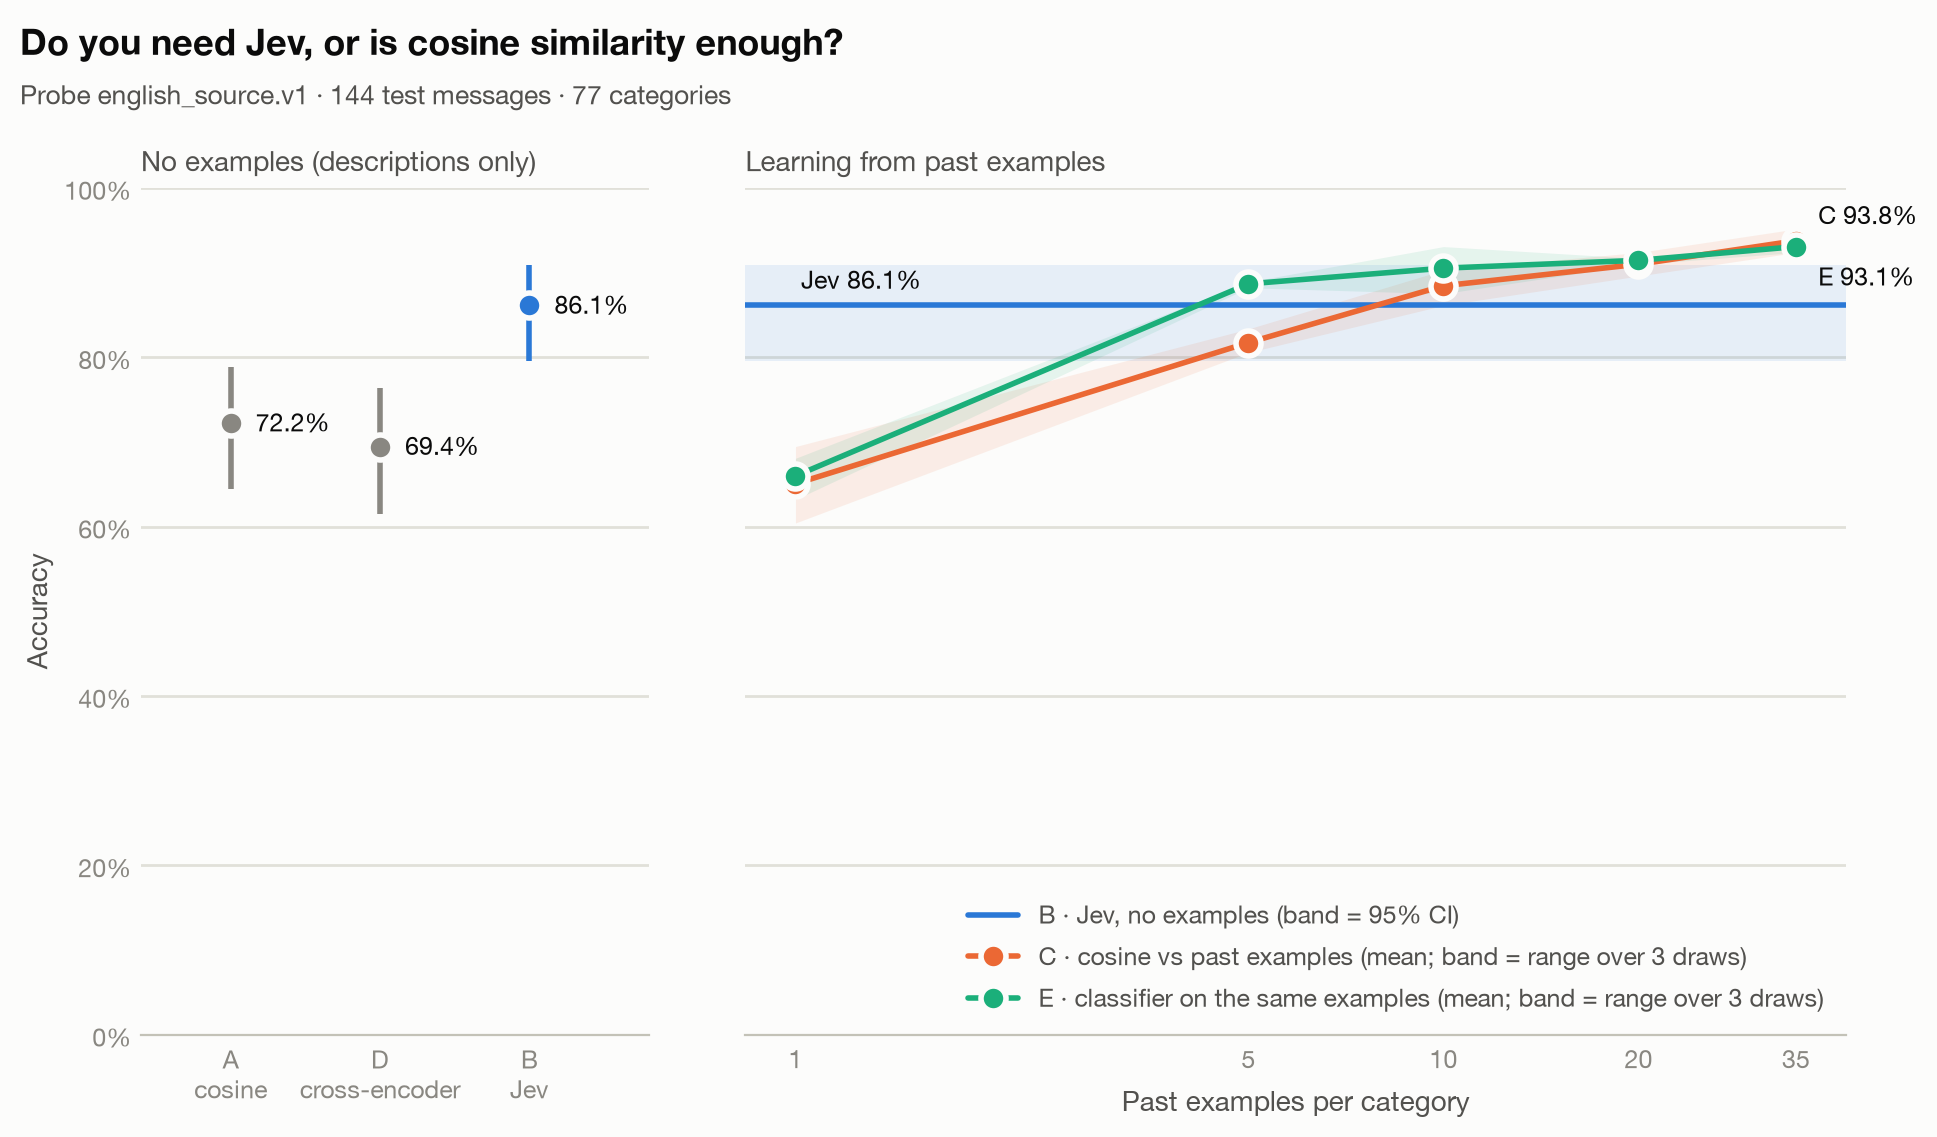
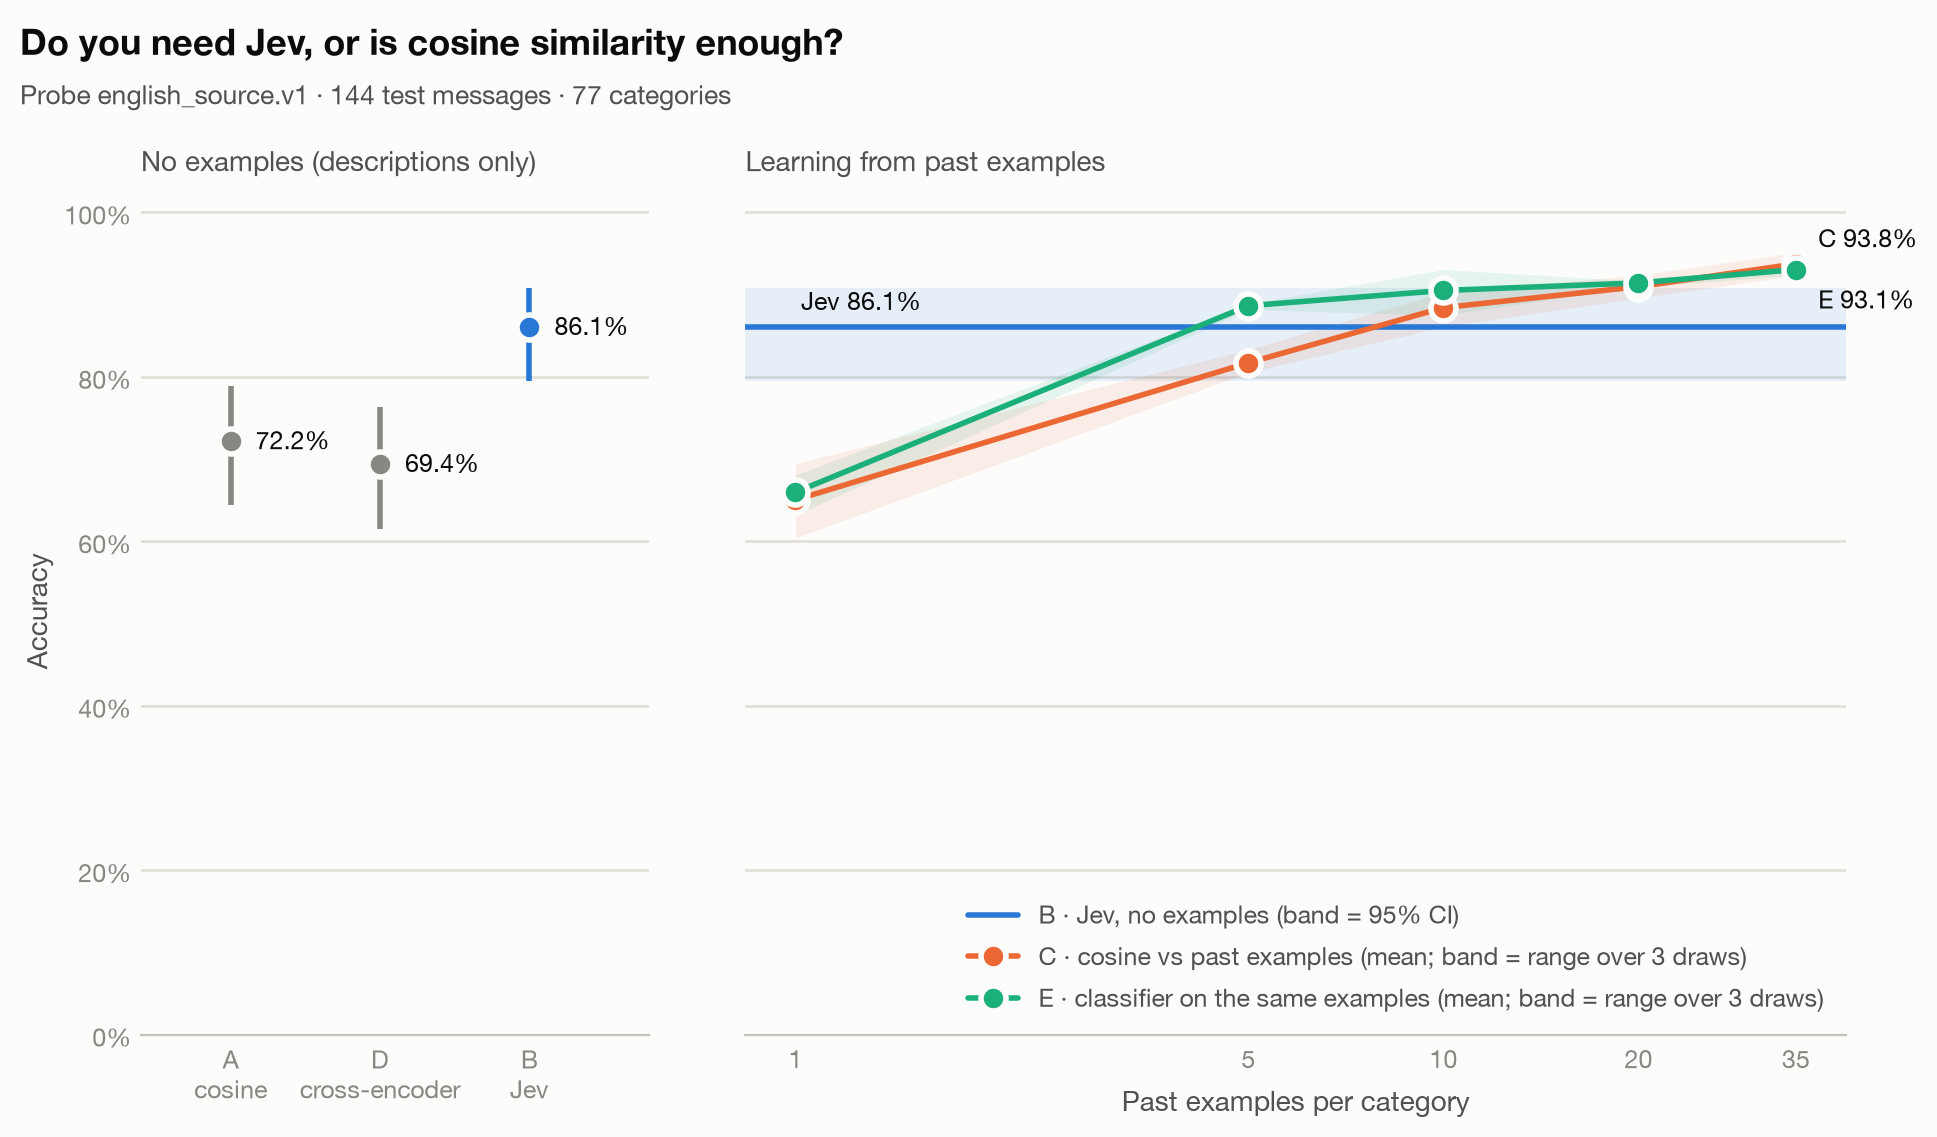
docs: regenerate the remaining reports
The first_249, english_source, hinglish and tanglish reports now use
the chart fix, and include the B+ note line added with that method. No
numbers change.

diff --git a/results/first_249/REPORT.md b/results/first_249/REPORT.md
@@ -31,5 +31,6 @@ A local cross-encoder that reads each message together with each description (me
 - Prompt catalog: `banking77_intents.v1`. Embedding model: `BAAI/bge-small-en-v1.5@5c38ec7c405ec4b44b94cc5a9bb96e735b38267a`, run locally on CPU (free). Jev: `opencode.ai/jev-1.13-free` (model reported: jev-1.13-free).
 - D scores (message, name + description) for every category with a cross-encoder reranker (`BAAI/bge-reranker-v2-m3@953dc6f6f85a1b2dbfca4c34a2796e7dde08d41e`), 77 pairs per message, locally on CPU, with no examples. Its latency is all 77 pairs for one message.
 - E trains a logistic-regression classifier on the embeddings of the same past examples C votes with (same seeds, same messages). Training is offline and untimed.
+- B+ appends the seed-1 past examples C and E use at that setting to each of Jev's category descriptions, so its catalog, token count and cache namespace differ from B.
 - Latency for A and C is local embedding plus scoring per message. For Jev it is the full network round trip, including retry waits on routes with retries enabled.
 - List-price cost is what the run would cost at $0.042 per million input tokens, even when the route used was free.

diff --git a/results/probe_english_source.v1/REPORT.md b/results/probe_english_source.v1/REPORT.md
@@ -31,5 +31,6 @@ A local cross-encoder that reads each message together with each description (me
 - Prompt catalog: `banking77_intents.v1`. Embedding model: `BAAI/bge-small-en-v1.5@5c38ec7c405ec4b44b94cc5a9bb96e735b38267a`, run locally on CPU (free). Jev: `opencode.ai/jev-1.13-free` (model reported: jev-1.13-free).
 - D scores (message, name + description) for every category with a cross-encoder reranker (`BAAI/bge-reranker-v2-m3@953dc6f6f85a1b2dbfca4c34a2796e7dde08d41e`), 77 pairs per message, locally on CPU, with no examples. Its latency is all 77 pairs for one message.
 - E trains a logistic-regression classifier on the embeddings of the same past examples C votes with (same seeds, same messages). Training is offline and untimed.
+- B+ appends the seed-1 past examples C and E use at that setting to each of Jev's category descriptions, so its catalog, token count and cache namespace differ from B.
 - Latency for A and C is local embedding plus scoring per message. For Jev it is the full network round trip, including retry waits on routes with retries enabled.
 - List-price cost is what the run would cost at $0.042 per million input tokens, even when the route used was free.

diff --git a/results/probe_hinglish.v1/REPORT.md b/results/probe_hinglish.v1/REPORT.md
@@ -30,5 +30,6 @@ A local cross-encoder that reads each message together with each description (me
 - Prompt catalog: `banking77_intents.v1`. Embedding model: `BAAI/bge-small-en-v1.5@5c38ec7c405ec4b44b94cc5a9bb96e735b38267a`, run locally on CPU (free). Jev: not run.
 - D scores (message, name + description) for every category with a cross-encoder reranker (`BAAI/bge-reranker-v2-m3@953dc6f6f85a1b2dbfca4c34a2796e7dde08d41e`), 77 pairs per message, locally on CPU, with no examples. Its latency is all 77 pairs for one message.
 - E trains a logistic-regression classifier on the embeddings of the same past examples C votes with (same seeds, same messages). Training is offline and untimed.
+- B+ appends the seed-1 past examples C and E use at that setting to each of Jev's category descriptions, so its catalog, token count and cache namespace differ from B.
 - Latency for A and C is local embedding plus scoring per message. For Jev it is the full network round trip, including retry waits on routes with retries enabled.
 - List-price cost is what the run would cost at $0.042 per million input tokens, even when the route used was free.

diff --git a/results/probe_tanglish.v1/REPORT.md b/results/probe_tanglish.v1/REPORT.md
@@ -30,5 +30,6 @@ A local cross-encoder that reads each message together with each description (me
 - Prompt catalog: `banking77_intents.v1`. Embedding model: `BAAI/bge-small-en-v1.5@5c38ec7c405ec4b44b94cc5a9bb96e735b38267a`, run locally on CPU (free). Jev: not run.
 - D scores (message, name + description) for every category with a cross-encoder reranker (`BAAI/bge-reranker-v2-m3@953dc6f6f85a1b2dbfca4c34a2796e7dde08d41e`), 77 pairs per message, locally on CPU, with no examples. Its latency is all 77 pairs for one message.
 - E trains a logistic-regression classifier on the embeddings of the same past examples C votes with (same seeds, same messages). Training is offline and untimed.
+- B+ appends the seed-1 past examples C and E use at that setting to each of Jev's category descriptions, so its catalog, token count and cache namespace differ from B.
 - Latency for A and C is local embedding plus scoring per message. For Jev it is the full network round trip, including retry waits on routes with retries enabled.
 - List-price cost is what the run would cost at $0.042 per million input tokens, even when the route used was free.
